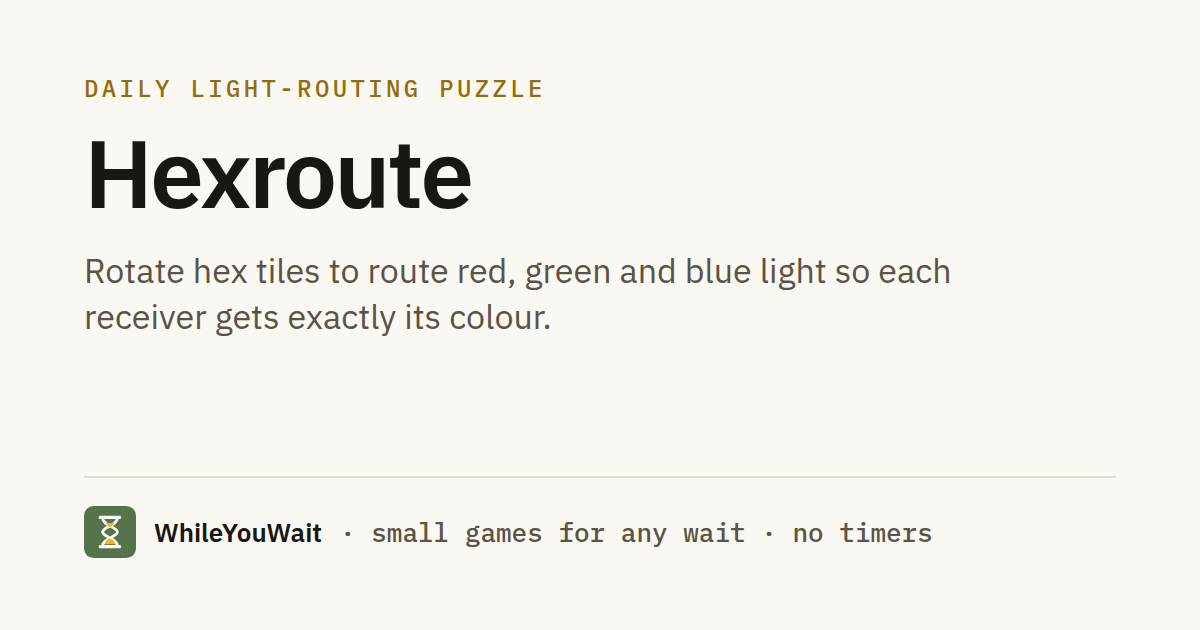
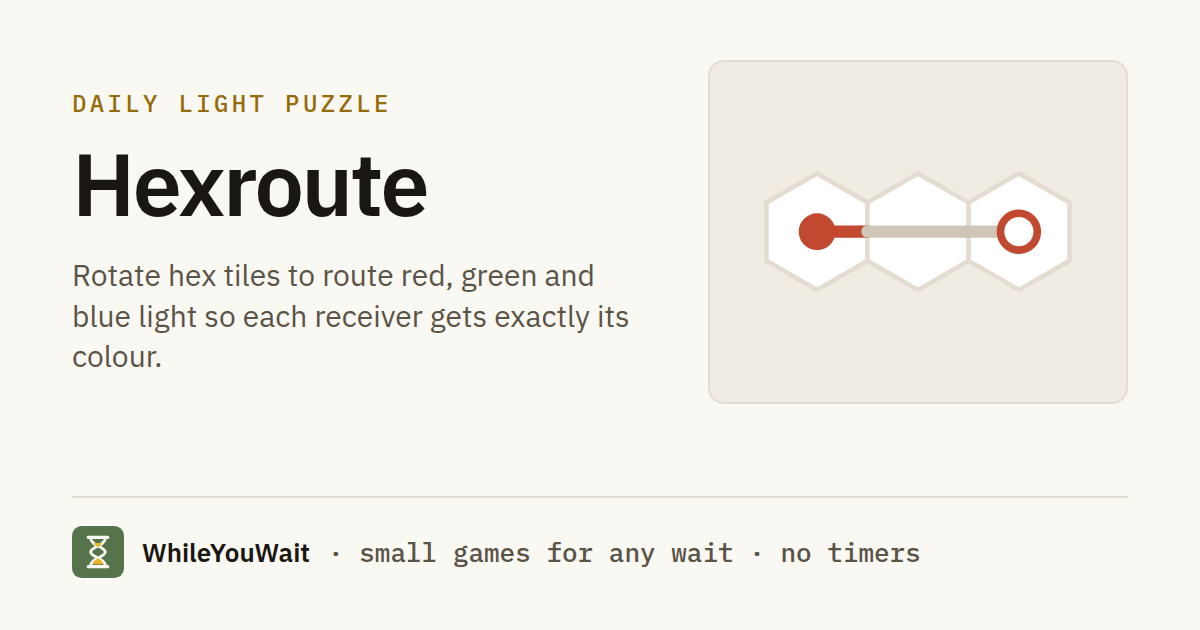
feat(web): add Timber to the catalog, put game art on social cards
Social cards were text only and looked alike in a feed. Each now shows its game's
catalog preview, frozen in its reduced-motion frame, and the catalog card shows all
of them. render-cards.sh pulls the art from the catalog so the two can't drift.
Titles and descriptions are rewritten to say what you do and why it's interesting,
and every page gains og:image:alt.

diff --git a/services/web/public/index.html b/services/web/public/index.html
@@ -3,9 +3,9 @@
 <meta charset="utf-8">
 <meta name="viewport" content="width=device-width, initial-scale=1, viewport-fit=cover">
 <title>WhileYouWait: small daily games for any wait</title>
-<meta name="description" content="Small daily games for any wait: the build, the commute, the queue. No timers.">
-<meta property="og:title" content="WhileYouWait">
-<meta property="og:description" content="Small daily games for any wait: the build, the commute, the queue. No timers.">
+<meta name="description" content="Small daily puzzles for the build, the commute and the queue. A new one of each every day, free, with no sign-up and no timers.">
+<meta property="og:title" content="WhileYouWait: small daily games for any wait">
+<meta property="og:description" content="Small daily puzzles for the build, the commute and the queue. A new one of each every day, free, with no sign-up and no timers.">
 <link rel="canonical" href="https://whileyouwait.suncake.xyz/">
 <meta property="og:type" content="website">
 <meta property="og:site_name" content="WhileYouWait">
@@ -13,6 +13,7 @@
 <meta property="og:image" content="https://whileyouwait.suncake.xyz/og/catalog.png">
 <meta property="og:image:width" content="1200">
 <meta property="og:image:height" content="630">
+<meta property="og:image:alt" content="WhileYouWait, a catalog of small daily games">
 <meta name="twitter:card" content="summary_large_image">
 <meta name="theme-color" content="#FAF8F3">
 <link rel="icon" href="/favicon.svg" type="image/svg+xml">
@@ -21,7 +22,7 @@
 <script src="/shared/offline.js" defer></script>
 <script type="application/ld+json">
 {"@context":"https://schema.org","@type":"WebSite","name":"WhileYouWait","url":"https://whileyouwait.suncake.xyz/",
- "description":"Small daily games for any wait: the build, the commute, the queue. No timers."}
+ "description":"Small daily puzzles for the build, the commute and the queue. A new one of each every day, free, with no sign-up and no timers."}
 </script>
 <link rel="preconnect" href="https://fonts.googleapis.com">
 <link rel="stylesheet" href="https://fonts.googleapis.com/css2?family=IBM+Plex+Sans:wght@400;500;600&family=IBM+Plex+Mono:wght@400;500;600&display=swap">
@@ -32,6 +33,7 @@
 :root {
   --bg: #FAF8F3; --tile: #FFFFFF; --empty: #F1ECE3; --line: #E4DCD0; --wire: #CFC6B7;
   --fg: #1A1611; --muted: #5A5346; --brand: #56744B; --accent-ink: #956C0A;
+  --amber: #E6AC0C; --plank: #CFA13C; --plank-end: #EAC463; --ink: #3A342B;
   --bad: #C0492F; --bad-bg: #F6E1DA; --ok-bg: #E3EBDD; --blue: #3F63A8; --dye: #2F4A7A; --weft: #E9DCC3;
   --ring: 0 0 0 3px rgba(86, 116, 75, 0.32);
   --shadow-sm: 0 1px 3px rgba(26, 22, 17, 0.06), 0 1px 2px rgba(26, 22, 17, 0.04);
@@ -42,12 +44,12 @@
 }
 @media (prefers-color-scheme: dark) { :root:not([data-theme="light"]) {
   --bg: #1A1611; --tile: #29241D; --empty: #211D17; --line: #403A30; --wire: #5A5346;
-  --fg: #FAF8F3; --muted: #A79E8D; --brand: #86A878; --accent-ink: #EBB528;
+  --fg: #FAF8F3; --muted: #A79E8D; --amber: #E6AC0C; --plank: #A98328; --plank-end: #BD9635; --ink: #D8CFC0; --brand: #86A878; --accent-ink: #EBB528;
   --bad: #E06A4E; --bad-bg: #4A2A21; --ok-bg: #2E3A28; --blue: #6E8FD6; --dye: #5B7DC4; --weft: #D9C9A8;
   --ring: 0 0 0 3px rgba(134, 168, 120, 0.4); --shadow-sm: 0 1px 3px rgba(0, 0, 0, 0.3); color-scheme: dark } }
 :root[data-theme="dark"] {
   --bg: #1A1611; --tile: #29241D; --empty: #211D17; --line: #403A30; --wire: #5A5346;
-  --fg: #FAF8F3; --muted: #A79E8D; --brand: #86A878; --accent-ink: #EBB528;
+  --fg: #FAF8F3; --muted: #A79E8D; --amber: #E6AC0C; --plank: #A98328; --plank-end: #BD9635; --ink: #D8CFC0; --brand: #86A878; --accent-ink: #EBB528;
   --bad: #E06A4E; --bad-bg: #4A2A21; --ok-bg: #2E3A28; --blue: #6E8FD6; --dye: #5B7DC4; --weft: #D9C9A8;
   --ring: 0 0 0 3px rgba(134, 168, 120, 0.4); --shadow-sm: 0 1px 3px rgba(0, 0, 0, 0.3); color-scheme: dark }
 body { margin: 0; background: var(--bg); color: var(--fg); font: 15px/1.5 var(--font-body); }
@@ -109,6 +111,17 @@ h1 { font-weight: 600; font-size: 28px; letter-spacing: -0.02em; margin: 2px 0 6
 @keyframes po-tilt { 0%, 30% { transform: rotate(8deg); stroke: var(--fg); } 38% { transform: rotate(-3deg); stroke: var(--fg); } 46%, 86% { transform: rotate(0deg); stroke: var(--brand); } 96%, 100% { transform: rotate(8deg); stroke: var(--fg); } }
 @keyframes po-dl { 0%, 30% { transform: translateY(-5px); } 38% { transform: translateY(1.9px); } 46%, 86% { transform: translateY(0); } 96%, 100% { transform: translateY(-5px); } }
 @keyframes po-dr { 0%, 30% { transform: translateY(2.5px); } 38% { transform: translateY(-0.9px); } 46%, 86% { transform: translateY(0); } 96%, 100% { transform: translateY(2.5px); } }
+/* Timber preview: blocks stand on a small board, topple in turn, and their planks join into a path from flag to flag. */
+.tb .cellg { fill: var(--empty); stroke: var(--line); stroke-width: 0.8; }
+.tb .flag { fill: none; stroke: var(--ink); stroke-width: 1.8; }
+.tb .sg { fill: var(--brand); }
+.tb .st { fill: var(--amber); animation: tb-stand 7s infinite; animation-delay: calc(var(--d) * 0.6s); }
+.tb .pl { transform-box: fill-box; transform-origin: left top; animation: tb-fall 7s infinite; animation-delay: calc(var(--d) * 0.6s); }
+.tb .pl.v { animation-name: tb-drop; }
+.tb .pl rect { fill: var(--plank); } .tb .pl .end { fill: var(--plank-end); }
+@keyframes tb-stand { 0%, 12% { opacity: 1; } 15%, 80% { opacity: 0; } 86%, 100% { opacity: 1; } }
+@keyframes tb-fall { 0%, 12% { opacity: 0; transform: scaleX(0.3); } 18%, 80% { opacity: 1; transform: scaleX(1); } 86%, 100% { opacity: 0; transform: scaleX(0.3); } }
+@keyframes tb-drop { 0%, 12% { opacity: 0; transform: scaleY(0.3); } 18%, 80% { opacity: 1; transform: scaleY(1); } 86%, 100% { opacity: 0; transform: scaleY(0.3); } }
 /* Runoff preview: a bank of soil blocks the stream to the field, so it runs to the house;
    the bank is shoved across and the water turns to the field. Resting frame: the solved one. */
 .ro { --rw: #3B82B0; }
@@ -129,7 +142,7 @@ h1 { font-weight: 600; font-size: 28px; letter-spacing: -0.02em; margin: 2px 0 6
 @keyframes ro-bank { 0%, 30% { transform: translate(32px, 0); } 42%, 90% { transform: translate(0, 0); } 98%, 100% { transform: translate(32px, 0); } }
 @keyframes ro-house { 0%, 40% { fill: var(--bad); } 46%, 92% { fill: var(--tile); } 98%, 100% { fill: var(--bad); } }
 @keyframes ro-crop { 0%, 50% { stroke: var(--accent-ink); } 56%, 90% { stroke: var(--brand); } 96%, 100% { stroke: var(--accent-ink); } }
-@media (prefers-reduced-motion: reduce) { .preview * { animation: none !important; } .lm .mix { opacity: 0; } .fl rect { opacity: 1; } .hx .spin { transform: none; } .po .beam { stroke: var(--brand); } .ro .ra { opacity: 0; } }
+@media (prefers-reduced-motion: reduce) { .preview * { animation: none !important; } .tb .st { opacity: 0; } .tb .pl { opacity: 1; transform: none; } .lm .mix { opacity: 0; } .fl rect { opacity: 1; } .hx .spin { transform: none; } .po .beam { stroke: var(--brand); } .ro .ra { opacity: 0; } }
 .game:hover { border-color: var(--wire); }
 .game:active { transform: translateY(0.5px); }
 .game:focus-visible { outline: none; box-shadow: var(--ring); }
@@ -150,6 +163,21 @@ footer a { color: inherit; }
   </header>
 
   <ul class="games">
+    <li><a class="game" href="/timber/" data-save="timber1-">
+      <div class="game-body">
+        <div class="game-top"><h2>Timber</h2><span class="tag">Blocks</span></div>
+        <p>Topple wooden blocks so they fall into a path between two flags. One push can bring down a whole line, wanted or not.</p>
+      </div>
+      <svg class="preview tb" viewBox="0 0 120 80" aria-hidden="true">
+        <rect class="cellg" x="10" y="10" width="20" height="20"/><rect class="cellg" x="30" y="10" width="20" height="20"/><rect class="cellg" x="50" y="10" width="20" height="20"/><rect class="cellg" x="70" y="10" width="20" height="20"/><rect class="cellg" x="90" y="10" width="20" height="20"/><rect class="cellg" x="10" y="30" width="20" height="20"/><rect class="cellg" x="30" y="30" width="20" height="20"/><rect class="cellg" x="50" y="30" width="20" height="20"/><rect class="cellg" x="70" y="30" width="20" height="20"/><rect class="cellg" x="90" y="30" width="20" height="20"/><rect class="cellg" x="10" y="50" width="20" height="20"/><rect class="cellg" x="30" y="50" width="20" height="20"/><rect class="cellg" x="50" y="50" width="20" height="20"/><rect class="cellg" x="70" y="50" width="20" height="20"/><rect class="cellg" x="90" y="50" width="20" height="20"/>
+        <rect class="sg" x="72" y="12" width="16" height="16" rx="2.5"/><rect class="sg" x="32" y="52" width="16" height="16" rx="2.5"/><rect class="sg" x="92" y="32" width="16" height="16" rx="2.5"/>
+        <g class="pl" style="--d:0"><rect x="12" y="12" width="56" height="16" rx="2.5"/><rect class="end" x="61" y="12" width="7" height="16" rx="2.5"/></g>
+        <g class="pl v" style="--d:1"><rect x="52" y="32" width="16" height="36" rx="2.5"/><rect class="end" x="52" y="61" width="16" height="7" rx="2.5"/></g>
+        <g class="pl" style="--d:2"><rect x="72" y="52" width="36" height="16" rx="2.5"/><rect class="end" x="101" y="52" width="7" height="16" rx="2.5"/></g>
+        <rect class="st" style="--d:0" x="12" y="12" width="16" height="16" rx="2.5"/><rect class="st" style="--d:1" x="52" y="32" width="16" height="16" rx="2.5"/><rect class="st" style="--d:2" x="72" y="52" width="16" height="16" rx="2.5"/>
+        <circle class="flag" cx="20" cy="20" r="4"/><circle class="flag" cx="100" cy="60" r="4"/>
+      </svg>
+    </a></li>
     <li><a class="game" href="/runoff/" data-save="runoff1-">
       <div class="game-body">
         <div class="game-top"><h2>Runoff</h2><span class="tag">Water</span></div>

diff --git a/services/web/cards/card.html b/services/web/cards/card.html
@@ -1,27 +1,45 @@
 <!doctype html>
-<!-- Social card template, 1200x630. scripts/render-cards.sh screenshots it
-     once per page with ?eyebrow=&title=&text= and commits the PNGs. -->
+<!-- Social card template, 1200x630. scripts/render-cards.sh fills in the catalog's
+     preview art and styles, then screenshots it once per page with
+     ?eyebrow=&title=&text=&art= (a preview's class, or "all") and commits the PNGs.
+     The art sits in a shadow root so the catalog's styles can't touch the card. -->
 <html lang="en">
 <meta charset="utf-8">
 <link rel="stylesheet" href="https://fonts.googleapis.com/css2?family=IBM+Plex+Sans:wght@400;600&family=IBM+Plex+Mono:wght@500&display=block">
 <style>
 html, body { margin: 0; width: 1200px; height: 630px; overflow: hidden; }
 body { background: #FAF8F3; color: #1A1611; font-family: "IBM Plex Sans", sans-serif;
-  display: flex; flex-direction: column; justify-content: space-between; box-sizing: border-box; padding: 72px 84px; }
+  display: flex; flex-direction: column; justify-content: space-between; box-sizing: border-box; padding: 60px 72px 52px; }
+.top { display: flex; justify-content: space-between; gap: 48px; align-items: center; }
+#art { flex: none; width: 420px; height: 344px; box-sizing: border-box; padding: 24px; background: #F1ECE3; border: 2px solid #E4DCD0; border-radius: 16px; display: flex; align-items: center; justify-content: center; }
 .eyebrow { font: 500 24px "IBM Plex Mono", monospace; text-transform: uppercase; letter-spacing: 0.14em; color: #956C0A; }
-h1 { font-weight: 600; font-size: 96px; letter-spacing: -0.03em; line-height: 1; margin: 20px 0 28px; }
-p { font-size: 34px; line-height: 1.35; color: #5A5346; margin: 0; max-width: 960px; }
+h1 { font-weight: 600; font-size: 88px; letter-spacing: -0.03em; line-height: 1; margin: 20px 0 28px; }
+p { font-size: 30px; line-height: 1.35; color: #5A5346; margin: 0; }
 footer { display: flex; align-items: center; gap: 18px; font: 500 26px "IBM Plex Mono", monospace; color: #5A5346; border-top: 2px solid #E4DCD0; padding-top: 28px; }
 footer img { width: 52px; height: 52px; }
 footer b { color: #1A1611; font-family: "IBM Plex Sans", sans-serif; font-weight: 600; }
 </style>
-<main>
-  <div class="eyebrow" id="eyebrow"></div>
-  <h1 id="title"></h1>
-  <p id="text"></p>
-</main>
+<div class="top">
+  <main>
+    <div class="eyebrow" id="eyebrow"></div>
+    <h1 id="title"></h1>
+    <p id="text"></p>
+  </main>
+  <div id="art"></div>
+</div>
+<template id="previews"><!-- previews --></template>
 <footer><img src="../public/favicon.svg" alt=""><b>WhileYouWait</b> · small games for any wait · no timers</footer>
 <script>
 const q = new URLSearchParams(location.search);
 for (const k of ['eyebrow', 'title', 'text']) document.getElementById(k).textContent = q.get(k) || '';
+const art = q.get('art'), all = art === 'all', root = document.getElementById('art').attachShadow({ mode: 'open' });
+root.appendChild(document.getElementById('previews').content.cloneNode(true));
+root.querySelectorAll('svg').forEach(s => { if (!all && !s.classList.contains(art)) s.remove(); });
+const box = document.createElement('div');
+box.append(...root.querySelectorAll('svg'));
+root.appendChild(box);
+const fit = document.createElement('style');
+fit.textContent = (all ? 'div { width: 100%; display: grid; grid-template-columns: repeat(3, 1fr); gap: 18px; align-items: center; }' : 'div { width: 100%; }')
+  + ' .preview { width: 100%; height: auto; overflow: hidden; }';
+root.appendChild(fit);
 </script>

diff --git a/services/flaky/head.html b/services/flaky/head.html
@@ -2,9 +2,9 @@
 <html lang="en">
 <meta charset="utf-8">
 <meta name="viewport" content="width=device-width, initial-scale=1, viewport-fit=cover">
-<meta name="description" content="A test-pollution puzzle. CI is red because of hidden order dependencies between tests; design runs to find them in as little CI time as you can.">
-<meta property="og:title" content="Flaky">
-<meta property="og:description" content="A test-pollution puzzle. CI is red because of hidden order dependencies between tests; design runs to find them in as little CI time as you can.">
+<meta name="description" content="CI is red and the tests depend on their order. Find the hidden dependencies in as little CI time as you can.">
+<meta property="og:title" content="Flaky: a daily test-suite puzzle">
+<meta property="og:description" content="CI is red and the tests depend on their order. Find the hidden dependencies in as little CI time as you can.">
 <link rel="canonical" href="https://whileyouwait.suncake.xyz/flaky/">
 <meta property="og:type" content="website">
 <meta property="og:site_name" content="WhileYouWait">
@@ -12,6 +12,7 @@
 <meta property="og:image" content="https://whileyouwait.suncake.xyz/og/flaky.png">
 <meta property="og:image:width" content="1200">
 <meta property="og:image:height" content="630">
+<meta property="og:image:alt" content="Flaky, part of WhileYouWait">
 <meta name="twitter:card" content="summary_large_image">
 <meta name="theme-color" content="#FAF8F3">
 <link rel="icon" href="/favicon.svg" type="image/svg+xml">

diff --git a/services/root-cause/head.html b/services/root-cause/head.html
@@ -2,9 +2,9 @@
 <html lang="en">
 <meta charset="utf-8">
 <meta name="viewport" content="width=device-width, initial-scale=1, viewport-fit=cover">
-<meta name="description" content="An incident puzzle. Alerts cascade through a service graph; work out which services actually broke before the downtime adds up.">
-<meta property="og:title" content="Root Cause">
-<meta property="og:description" content="An incident puzzle. Alerts cascade through a service graph; work out which services actually broke before the downtime adds up.">
+<meta name="description" content="Alerts are cascading through the service graph. Work out which services really broke before the downtime adds up.">
+<meta property="og:title" content="Root Cause: a daily incident puzzle">
+<meta property="og:description" content="Alerts are cascading through the service graph. Work out which services really broke before the downtime adds up.">
 <link rel="canonical" href="https://whileyouwait.suncake.xyz/root-cause/">
 <meta property="og:type" content="website">
 <meta property="og:site_name" content="WhileYouWait">
@@ -12,6 +12,7 @@
 <meta property="og:image" content="https://whileyouwait.suncake.xyz/og/root-cause.png">
 <meta property="og:image:width" content="1200">
 <meta property="og:image:height" content="630">
+<meta property="og:image:alt" content="Root Cause, part of WhileYouWait">
 <meta name="twitter:card" content="summary_large_image">
 <meta name="theme-color" content="#FAF8F3">
 <link rel="icon" href="/favicon.svg" type="image/svg+xml">

diff --git a/services/loom/head.html b/services/loom/head.html
@@ -2,9 +2,9 @@
 <html lang="en">
 <meta charset="utf-8">
 <meta name="viewport" content="width=device-width, initial-scale=1, viewport-fit=cover">
-<meta name="description" content="A daily weaving puzzle. Set the threading and treadling of a small four-frame loom so the cloth weaves the target pattern.">
-<meta property="og:title" content="Loom">
-<meta property="og:description" content="A daily weaving puzzle. Set the threading and treadling of a small four-frame loom so the cloth weaves the target pattern.">
+<meta name="description" content="Set the threads and treadles of a small loom so the cloth weaves the day&#x27;s pattern. Every tap redraws the cloth.">
+<meta property="og:title" content="Loom: a daily weaving puzzle">
+<meta property="og:description" content="Set the threads and treadles of a small loom so the cloth weaves the day&#x27;s pattern. Every tap redraws the cloth.">
 <link rel="canonical" href="https://whileyouwait.suncake.xyz/loom/">
 <meta property="og:type" content="website">
 <meta property="og:site_name" content="WhileYouWait">
@@ -12,6 +12,7 @@
 <meta property="og:image" content="https://whileyouwait.suncake.xyz/og/loom.png">
 <meta property="og:image:width" content="1200">
 <meta property="og:image:height" content="630">
+<meta property="og:image:alt" content="Loom, part of WhileYouWait">
 <meta name="twitter:card" content="summary_large_image">
 <meta name="theme-color" content="#FAF8F3">
 <link rel="icon" href="/favicon.svg" type="image/svg+xml">

diff --git a/services/runoff/head.html b/services/runoff/head.html
@@ -2,9 +2,9 @@
 <html lang="en">
 <meta charset="utf-8">
 <meta name="viewport" content="width=device-width, initial-scale=1, viewport-fit=cover">
-<meta name="description" content="A daily water puzzle. Shove soil around a hillside so the spring waters every field and keeps every house dry.">
-<meta property="og:title" content="Runoff">
-<meta property="og:description" content="A daily water puzzle. Shove soil around a hillside so the spring waters every field and keeps every house dry.">
+<meta name="description" content="Shove soil around a hillside so the spring waters every field and misses every house. One shove can reroute the stream.">
+<meta property="og:title" content="Runoff: a daily water puzzle">
+<meta property="og:description" content="Shove soil around a hillside so the spring waters every field and misses every house. One shove can reroute the stream.">
 <link rel="canonical" href="https://whileyouwait.suncake.xyz/runoff/">
 <meta property="og:type" content="website">
 <meta property="og:site_name" content="WhileYouWait">
@@ -12,6 +12,7 @@
 <meta property="og:image" content="https://whileyouwait.suncake.xyz/og/runoff.png">
 <meta property="og:image:width" content="1200">
 <meta property="og:image:height" content="630">
+<meta property="og:image:alt" content="Runoff, part of WhileYouWait">
 <meta name="twitter:card" content="summary_large_image">
 <meta name="theme-color" content="#FAF8F3">
 <link rel="icon" href="/favicon.svg" type="image/svg+xml">

diff --git a/services/hexroute/head.html b/services/hexroute/head.html
@@ -2,9 +2,9 @@
 <html lang="en">
 <meta charset="utf-8">
 <meta name="viewport" content="width=device-width, initial-scale=1, viewport-fit=cover">
-<meta name="description" content="A daily hex puzzle. Rotate tiles to route red, green and blue light so each receiver gets its exact colour.">
-<meta property="og:title" content="Hexroute">
-<meta property="og:description" content="A daily hex puzzle. Rotate tiles to route red, green and blue light so each receiver gets its exact colour.">
+<meta name="description" content="Rotate hex tiles to route red, green and blue light so each receiver gets exactly its colour.">
+<meta property="og:title" content="Hexroute: a daily light puzzle">
+<meta property="og:description" content="Rotate hex tiles to route red, green and blue light so each receiver gets exactly its colour.">
 <link rel="canonical" href="https://whileyouwait.suncake.xyz/hexroute/">
 <meta property="og:type" content="website">
 <meta property="og:site_name" content="WhileYouWait">
@@ -12,6 +12,7 @@
 <meta property="og:image" content="https://whileyouwait.suncake.xyz/og/hexroute.png">
 <meta property="og:image:width" content="1200">
 <meta property="og:image:height" content="630">
+<meta property="og:image:alt" content="Hexroute, part of WhileYouWait">
 <meta name="twitter:card" content="summary_large_image">
 <meta name="theme-color" content="#FAF8F3">
 <link rel="icon" href="/favicon.svg" type="image/svg+xml">

diff --git a/services/poise/head.html b/services/poise/head.html
@@ -2,9 +2,9 @@
 <html lang="en">
 <meta charset="utf-8">
 <meta name="viewport" content="width=device-width, initial-scale=1, viewport-fit=cover">
-<meta name="description" content="A daily balance puzzle. Swap the weights on a hanging mobile until every bar hangs level.">
-<meta property="og:title" content="Poise">
-<meta property="og:description" content="A daily balance puzzle. Swap the weights on a hanging mobile until every bar hangs level.">
+<meta name="description" content="Swap the weights on a hanging mobile until every bar hangs level. Each bar only tells you which side is heavy.">
+<meta property="og:title" content="Poise: a daily balance puzzle">
+<meta property="og:description" content="Swap the weights on a hanging mobile until every bar hangs level. Each bar only tells you which side is heavy.">
 <link rel="canonical" href="https://whileyouwait.suncake.xyz/poise/">
 <meta property="og:type" content="website">
 <meta property="og:site_name" content="WhileYouWait">
@@ -12,6 +12,7 @@
 <meta property="og:image" content="https://whileyouwait.suncake.xyz/og/poise.png">
 <meta property="og:image:width" content="1200">
 <meta property="og:image:height" content="630">
+<meta property="og:image:alt" content="Poise, part of WhileYouWait">
 <meta name="twitter:card" content="summary_large_image">
 <meta name="theme-color" content="#FAF8F3">
 <link rel="icon" href="/favicon.svg" type="image/svg+xml">
